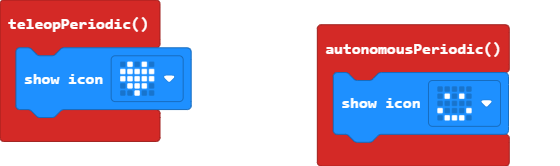
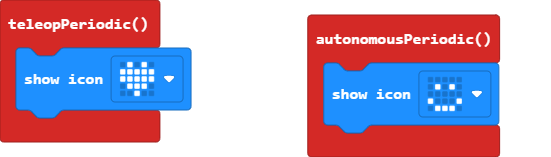
Update main.blocks, test.ts

Changed region(s): [[0.5554, 0.0764, 0.9256, 1.0], [0.0, 0.0, 0.3702, 0.9172]]

diff --git a/test.ts b/test.ts
@@ -1,1 +1,7 @@
 // tests go here; this will not be compiled when this package is used as an extension.
+Oscats.teleopPeriodic(function () {
+    basic.showIcon(IconNames.Heart)
+})
+Oscats.autonomousPeriodic(function () {
+    basic.showIcon(IconNames.Happy)
+})
